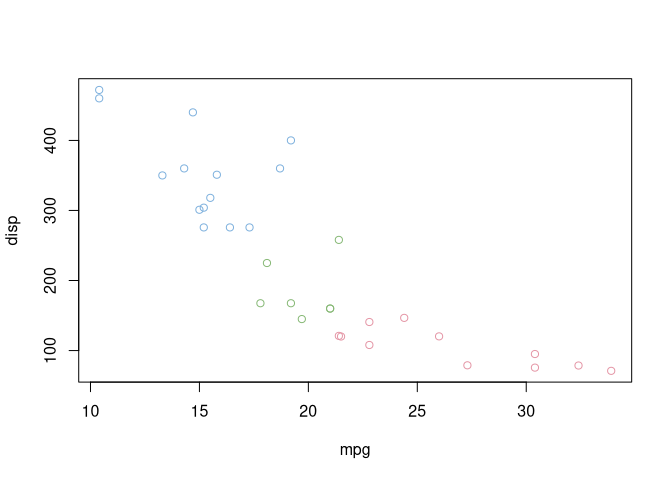
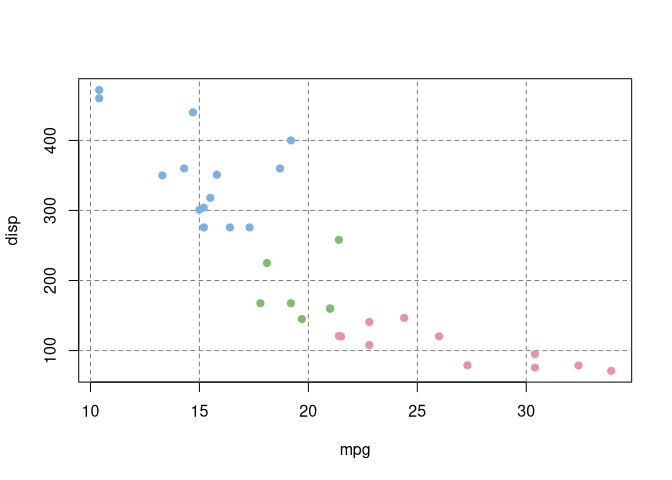
bb_grid

diff --git a/README.md b/README.md
@@ -10,7 +10,7 @@
 library(plotbb)
 
 p <- bbplot(mtcars, bb_aes(mpg, disp, col=factor(cyl)))
-p + bb_point()
+p + bb_grid(col='grey50', lty='dashed') + bb_point(pch=19)
 ```
 
 ![](README_files/figure-gfm/aes-1.png)<!-- -->
@@ -28,6 +28,7 @@ p2; p3
 
 ### TODO
 
+  - [x] bb\_grid
   - [x] bb\_point
   - [x] bb\_lm
   - more layers need to be added
